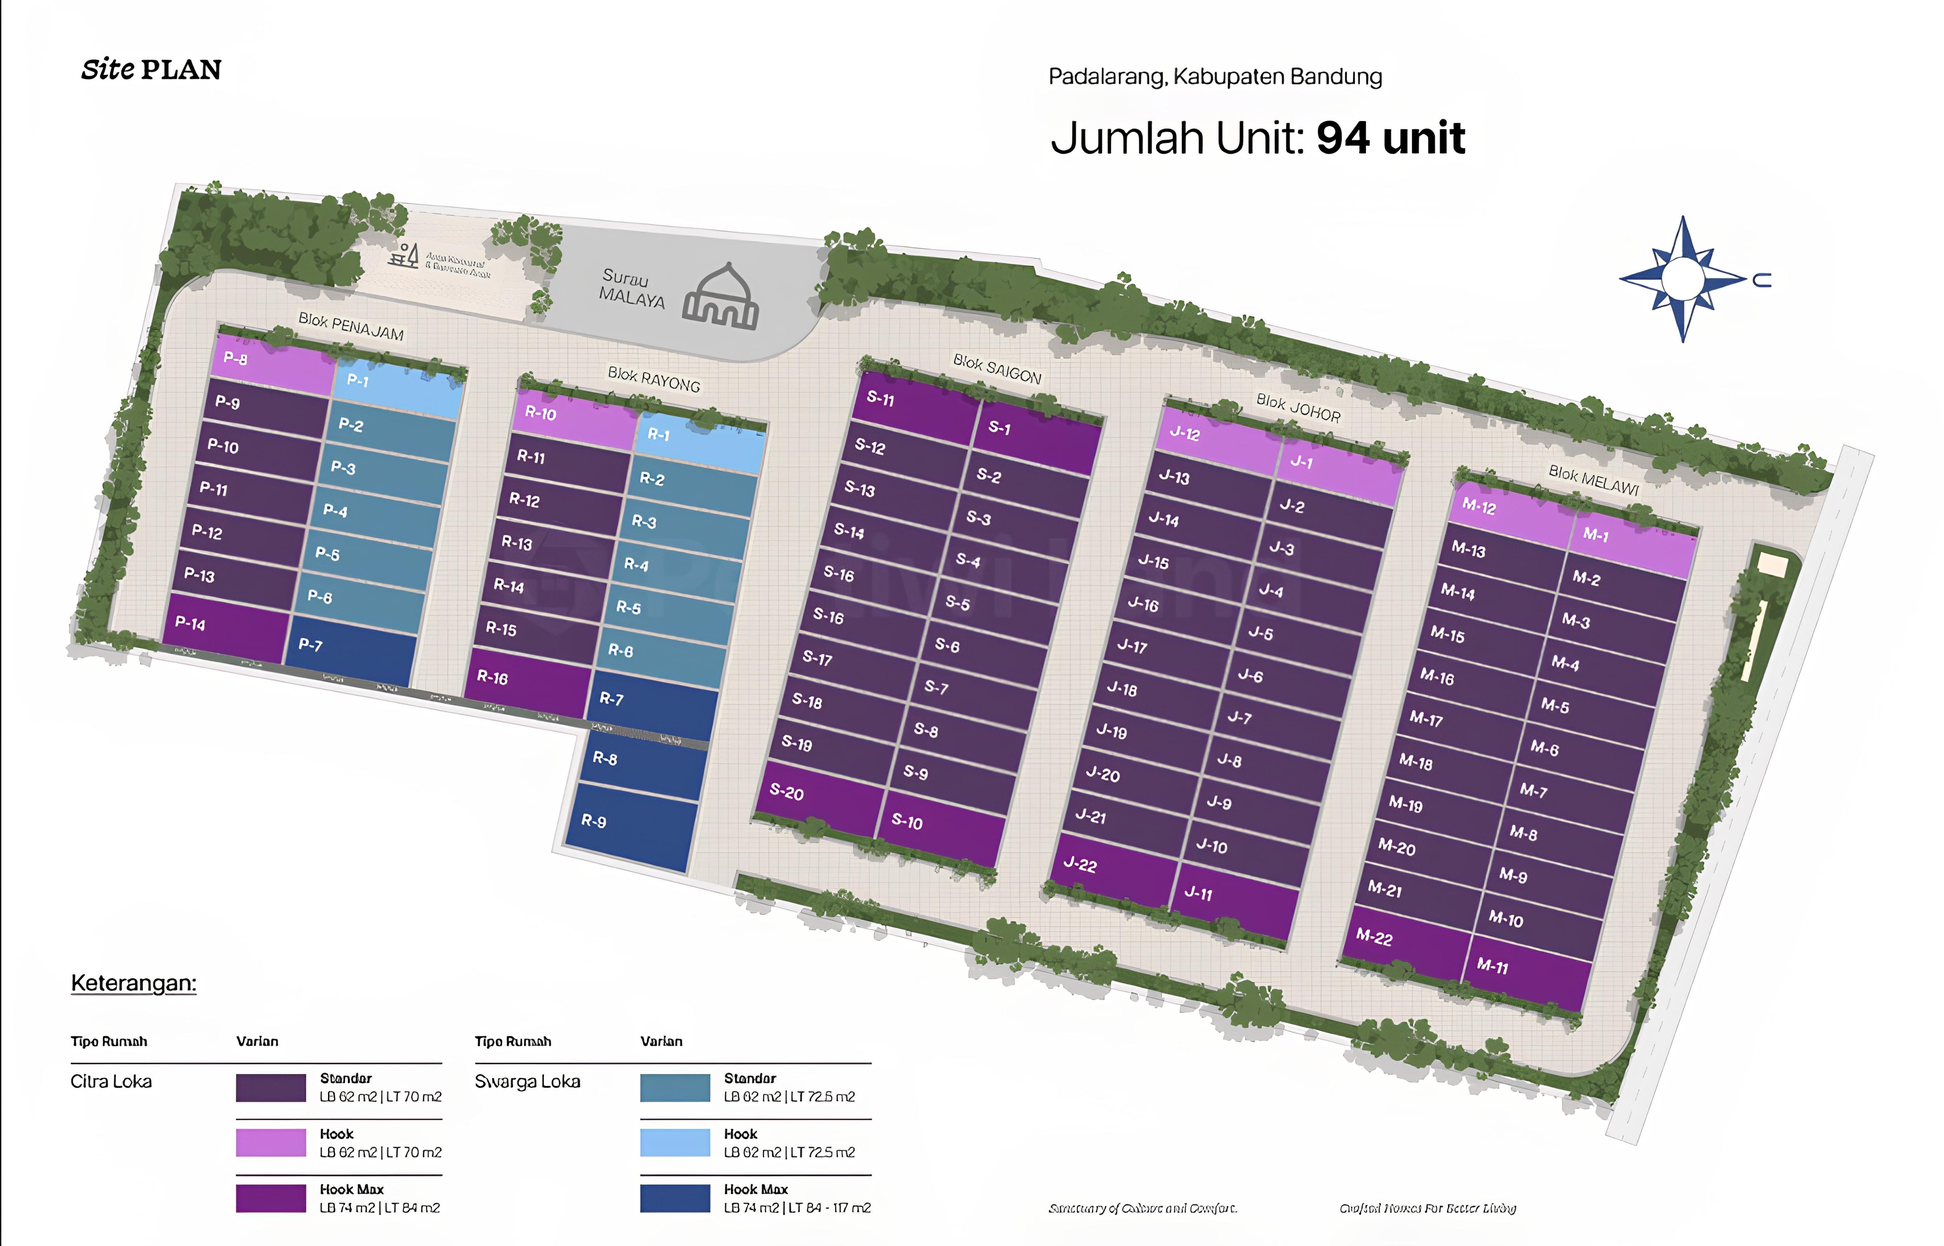
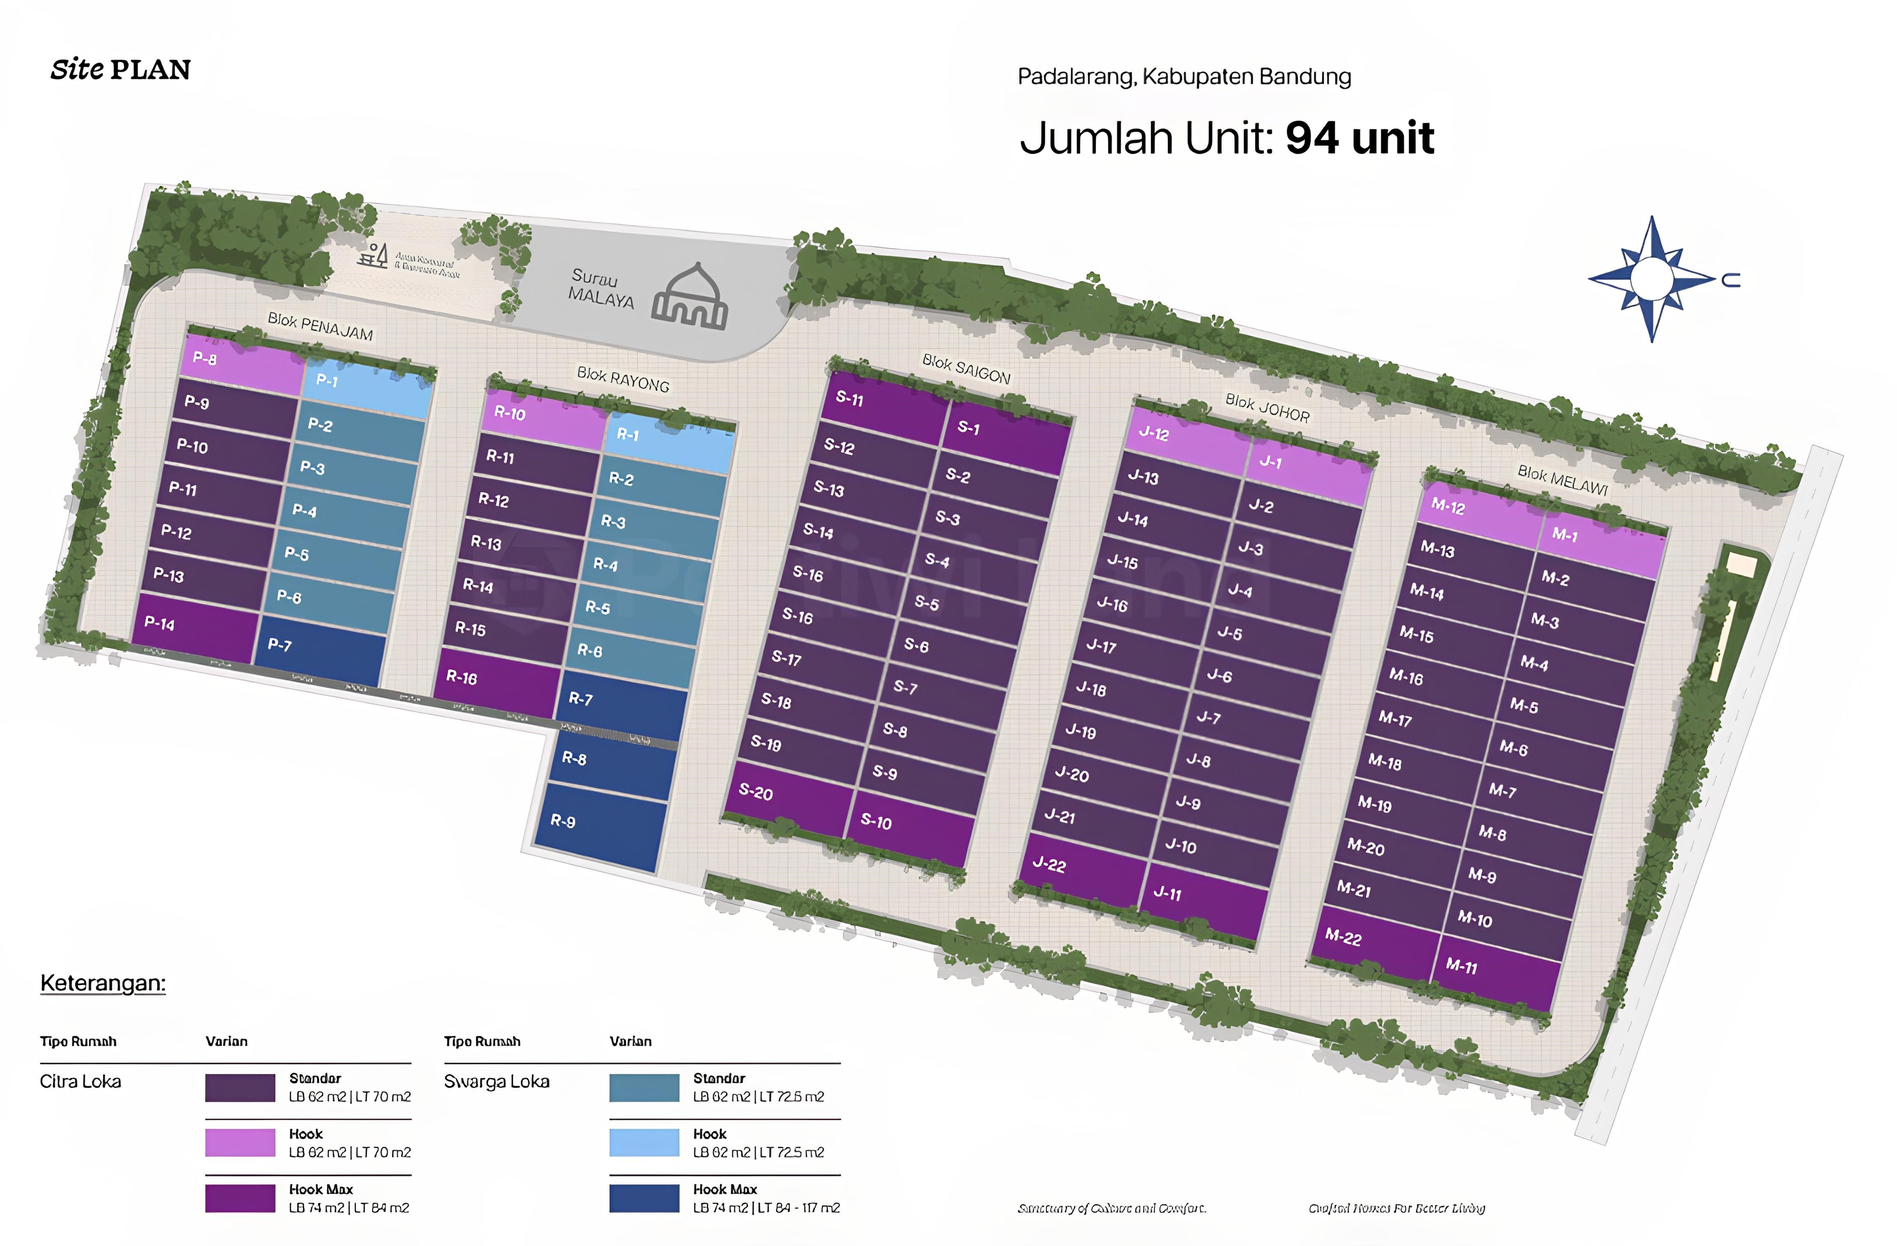
Final V1

diff --git a/index.html b/index.html
@@ -17,16 +17,19 @@
 <body class="bg-white text-gray-800">
 
     <header class="bg-white shadow-md sticky top-0 z-50">
-        <nav class="container mx-auto px-6 py-4 flex justify-between items-center">
-            <div class="text-2xl font-bold text-gray-800">MALAYA</div>
-            <div class="hidden md:flex space-x-8">
-                <a href="#home" class="text-gray-600 hover:text-gray-800">Home</a>
-                <a href="#about" class="text-gray-600 hover:text-gray-800">About</a>
-                <a href="#contact" class="text-gray-600 hover:text-gray-800">Contact</a>
-            </div>
-            <a href="#" class="bg-red-700 text-white px-4 py-2 rounded-md hover:bg-red-800">Download E-Brochure</a>
-        </nav>
-    </header>
+    <nav class="container mx-auto px-6 py-4 flex justify-between items-center">
+        <div class="flex items-center">
+            <img src="asset/logo/MalayaTitleUp.png" alt="Malaya House Logo" class="h-20 w-auto mr-3">
+        </div>
+        <div class="hidden md:flex space-x-8">
+            <a href="#home" class="text-gray-600 hover:text-gray-800">Home</a>
+            <a href="#about" class="text-gray-600 hover:text-gray-800">About</a>
+            <a href="#contact" class="text-gray-600 hover:text-gray-800">Contact</a>
+        </div>
+        <a href="#" class="bg-red-700 text-white px-4 py-2 rounded-md hover:bg-red-800">Download E-Brochure</a>
+    </nav>
+</header>
+
 
     <main>
         <section id="home" class="container mx-auto px-6 py-16 sm:py-24">
@@ -145,7 +148,7 @@
                         <a href="#" class="text-red-700 font-semibold hover:underline">Learn more &rarr;</a>
                     </div>
                     <div class="relative flex-grow flex flex-col">
-                <iframe src="https://maps.google.com/maps?q=Jl.%20Pasir%20Gede%2C%20Padalarang%2C%20Bandung%20Barat%2C%20Jawa%20Barat%2040553&t=&z=15&ie=UTF8&iwloc=&output=embed" class="w-full h-full object-cover rounded-2xl" style="border:0;" allowfullscreen="" loading="lazy" referrerpolicy="no-referrer-when-downgrade"></iframe>
+                <iframe src="https://www.google.com/maps/embed?pb=!1m18!1m12!1m3!1d3889.175882369402!2d107.47366287491049!3d-6.8439186931542535!2m3!1f0!2f0!3f0!3m2!1i1024!2i768!4f13.1!3m3!1m2!1s0x2e68fdd1abd9ad11%3A0xecbaddd557f73ee1!2sRUMAH%20MALAYA!5e1!3m2!1sen!2sid!4v1759476632500!5m2!1sen!2sid" class="w-full h-full object-cover rounded-2xl" style="border:0;" allowfullscreen="" loading="lazy" referrerpolicy="no-referrer-when-downgrade"></iframe>
                 <!-- <div class="absolute bottom-0 left-0 w-full p-4">
                    <a href="https://www.google.com/maps/search/?api=1&query=Jl.+Pasir+Gede,+Padalarang,+Bandung+Barat,+Jawa+Barat+40553" target="_blank" rel="noopener noreferrer" class="block bg-white/90 backdrop-blur-sm p-4 rounded-lg shadow-md hover:shadow-lg transition-shadow">
                        <div class="flex justify-between items-center">
@@ -254,11 +257,9 @@
                     <div class="lg:col-span-1">
                         <h2 class="text-5xl font-bold mb-4">Site Plan</h2>
                         <p class="text-gray-600 mb-6">Dirancang dengan tata ruang yang efisien, memastikan akses mudah ke fasilitas, ruang terbuka hijau, dan area komunal.</p>
-                        <img src="https://placehold.co/400x150/e2e8f0/333333?text=Site+Plan+Legend" alt="Site Plan Legend" class="w-full h-auto object-contain mb-6">
-                        <div class="text-lg font-bold">MALAYA</div>
-                    </div>
+                        </div>
                     <div class="lg:col-span-2">
-                        <img src="https://placehold.co/800x600/e2e8f0/333333?text=Malaya+Site+Plan+Image" alt="Site Plan" class="w-full h-auto rounded-lg shadow-lg">
+                        <img src="asset/Site_Plan_Malaya.jpg" alt="Site Plan" class="w-full h-auto rounded-lg shadow-lg">
                     </div>
                 </div>
                 
@@ -269,25 +270,25 @@
                     </div>
                     <div class="lg:col-span-2 grid grid-cols-2 md:grid-cols-4 gap-4">
                         <div class="relative rounded-lg overflow-hidden h-64 group">
-                             <img src="https://placehold.co/300x400/cccccc/333333?text=High+Ceiling" class="w-full h-full object-cover group-hover:scale-105 transition-transform duration-300">
+                             <img src="asset/fotofoto/Tanggal Lt.2- (3).png" class="w-full h-full object-cover group-hover:scale-105 transition-transform duration-300">
                              <div class="absolute bottom-0 left-0 p-4 bg-gradient-to-t from-black/60 to-transparent w-full">
                                 <h3 class="text-white text-lg font-bold">High Ceiling</h3>
                             </div>
                         </div>
                         <div class="relative rounded-lg overflow-hidden h-64 group">
-                             <img src="https://placehold.co/300x400/cccccc/333333?text=Open+Space" class="w-full h-full object-cover group-hover:scale-105 transition-transform duration-300">
+                             <img src="asset/fotofoto/Ruang Tengah- (3).png" class="w-full h-full object-cover group-hover:scale-105 transition-transform duration-300">
                              <div class="absolute bottom-0 left-0 p-4 bg-gradient-to-t from-black/60 to-transparent w-full">
                                 <h3 class="text-white text-lg font-bold">Open Space</h3>
                             </div>
                         </div>
                         <div class="relative rounded-lg overflow-hidden h-64 group">
-                             <img src="https://placehold.co/300x400/cccccc/333333?text=Carport+Luas" class="w-full h-full object-cover group-hover:scale-105 transition-transform duration-300">
+                             <img src="asset/fotofoto/carport.png" class="w-full h-full object-cover group-hover:scale-105 transition-transform duration-300">
                              <div class="absolute bottom-0 left-0 p-4 bg-gradient-to-t from-black/60 to-transparent w-full">
                                 <h3 class="text-white text-lg font-bold">Carport Luas</h3>
                             </div>
                         </div>
                         <div class="relative rounded-lg overflow-hidden h-64 group">
-                             <img src="https://placehold.co/300x400/cccccc/333333?text=Pencahayaan+Alami" class="w-full h-full object-cover group-hover:scale-105 transition-transform duration-300">
+                             <img src="asset/fotofoto/Ruang Tamu- (3).png" class="w-full h-full object-cover group-hover:scale-105 transition-transform duration-300">
                              <div class="absolute bottom-0 left-0 p-4 bg-gradient-to-t from-black/60 to-transparent w-full">
                                 <h3 class="text-white text-lg font-bold">Pencahayaan Alami</h3>
                             </div>
@@ -305,7 +306,7 @@
                 </div>
                 <div class="grid md:grid-cols-2 gap-12 items-center mb-24">
                     <div>
-                        <img src="https://placehold.co/600x400/e2e8f0/333333?text=Accessibility+Map" alt="Accessibility Map" class="w-full h-auto rounded-lg">
+                        <img src="asset/layout/Sekitar Malaya.jpg" alt="Accessibility Map" class="w-full h-auto rounded-lg">
                     </div>
                     <div>
                         <ul class="space-y-4">
@@ -323,95 +324,42 @@
                         <h2 class="text-5xl font-bold">Bank Partner</h2>
                     </div>
                     <div class="md:col-span-2 grid grid-cols-3 sm:grid-cols-5 gap-8 items-center">
-                        <img src="https://placehold.co/120x60/e2e8f0/cccccc?text=BCA" alt="BCA Logo" class="h-10 object-contain filter grayscale hover:grayscale-0 transition">
-                        <img src="https://placehold.co/120x60/e2e8f0/cccccc?text=BNI" alt="BNI Logo" class="h-10 object-contain filter grayscale hover:grayscale-0 transition">
-                        <img src="https://placehold.co/120x60/e2e8f0/cccccc?text=BRI" alt="BRI Logo" class="h-10 object-contain filter grayscale hover:grayscale-0 transition">
-                        <img src="https://placehold.co/120x60/e2e8f0/cccccc?text=BSI" alt="BSI Logo" class="h-10 object-contain filter grayscale hover:grayscale-0 transition">
-                        <img src="https://placehold.co/120x60/e2e8f0/cccccc?text=BJB" alt="BJB Syariah Logo" class="h-10 object-contain filter grayscale hover:grayscale-0 transition">
-                        <img src="https://placehold.co/120x60/e2e8f0/cccccc?text=Mandiri" alt="Mandiri Logo" class="h-10 object-contain filter grayscale hover:grayscale-0 transition">
-                        <img src="https://placehold.co/120x60/e2e8f0/cccccc?text=Permata" alt="Permata Syariah Logo" class="h-10 object-contain filter grayscale hover:grayscale-0 transition">
-                        <img src="https://placehold.co/120x60/e2e8f0/cccccc?text=Permata" alt="Permata Bank Logo" class="h-10 object-contain filter grayscale hover:grayscale-0 transition">
-                        <img src="https://placehold.co/120x60/e2e8f0/cccccc?text=BTN" alt="BTN Syariah Logo" class="h-10 object-contain filter grayscale hover:grayscale-0 transition">
-                        <img src="https://placehold.co/120x60/e2e8f0/cccccc?text=BCA" alt="BCA Syariah Logo" class="h-10 object-contain filter grayscale hover:grayscale-0 transition">
+                        <img src="asset/logo/bcalogo.png" alt="BCA Logo" class="h-10 object-contain filter grayscale hover:grayscale-0 transition">
+                        <img src="asset/logo/bnilogo.png" alt="BNI Logo" class="h-10 object-contain filter grayscale hover:grayscale-0 transition">
+                        <img src="asset/logo/brilogo.png" alt="BRI Logo" class="h-10 object-contain filter grayscale hover:grayscale-0 transition">
+                        <img src="asset/logo/Bank_Syariah_Indonesia.svg.png" alt="BSI Logo" class="h-10 object-contain filter grayscale hover:grayscale-0 transition">
+                        <img src="asset/logo/UpWz2NCSiKh4n70tyHM7e81vPT8oO5L6gR6QCJtd.png" alt="BJB Syariah Logo" class="h-10 object-contain filter grayscale hover:grayscale-0 transition">
+                        <img src="asset/logo/Bank_Mandiri_logo_2016.svg.png" alt="Mandiri Logo" class="h-10 object-contain filter grayscale hover:grayscale-0 transition">
+                        <img src="asset/logo/permatasyariah.png" alt="Permata Syariah Logo" class="h-10 object-contain filter grayscale hover:grayscale-0 transition">
+                        <img src="asset/logo/permatabank.png" alt="Permata Bank Logo" class="h-10 object-contain filter grayscale hover:grayscale-0 transition">
+                        <img src="asset/logo/logo-btn-syariah.webp" alt="BTN Syariah Logo" class="h-10 object-contain filter grayscale hover:grayscale-0 transition">
+                        <img src="asset/logo/logo-bcas-full-color.png" alt="BCA Syariah Logo" class="h-10 object-contain filter grayscale hover:grayscale-0 transition">
                     </div>
                 </div>
             </div>
         </section>
         
-        <section id="contact" class="py-16 sm:py-24 bg-gray-50">
-            <div class="container mx-auto px-6">
-                <div class="grid lg:grid-cols-2 gap-16 items-start">
-                    <div>
-                        <div class="mb-12">
-                            <h2 class="text-3xl font-bold">Jejak Kualitas, Terbukti dari Setiap Hunian</h2>
-                            <p class="text-gray-600 mt-2">Pertiwi Land: Developer Terpercaya dengan Reputasi Teruji</p>
-                        </div>
-                        <div class="grid sm:grid-cols-2 gap-8">
-                            <div class="bg-white p-6 rounded-lg shadow-md border-2 border-gray-200">
-                                <p class="text-gray-600 italic text-lg text-center">"Gambar desain dan hasil jadi rumahnya sesuai!"</p>
-                                <div class="mt-4 flex items-center justify-center space-x-3">
-                                    <img src="https://placehold.co/40x40/e0e0e0/333333?text=A" alt="Avatar" class="w-10 h-10 rounded-full">
-                                    <div class="text-left">
-                                        <p class="font-semibold">Nama Buyer</p>
-                                        <p class="text-sm text-gray-500">Konsumen proyek Eureka by Pertiwi Land</p>
-                                    </div>
-                                </div>
-                            </div>
-                            <div class="bg-white p-6 rounded-lg shadow-md border-2 border-gray-200">
-                                <p class="text-gray-600 italic text-lg text-center">"Rumah rasa villa yang city view-nya cakep banget dan bikin berasa staycation tiap hari."</p>
-                                 <div class="mt-4 flex items-center justify-center space-x-3">
-                                    <img src="https://placehold.co/40x40/e0e0e0/333333?text=B" alt="Avatar" class="w-10 h-10 rounded-full">
-                                    <div class="text-left">
-                                        <p class="font-semibold">Nama Buyer</p>
-                                        <p class="text-sm text-gray-500">Konsumen proyek xxx by Pertiwi Land</p>
-                                    </div>
-                                </div>
-                            </div>
-                        </div>
-                    </div>
-                    <div>
-                        <div class="bg-white p-8 rounded-lg shadow-lg">
-                            <h2 class="text-3xl font-bold mb-2">Punya Pertanyaan?</h2>
-                            <p class="text-gray-600 mb-6">Langsung Chat Aja!</p>
-                            <form action="#" method="POST" class="space-y-4">
-                                <div class="grid grid-cols-2 gap-4">
-                                     <div>
-                                        <label for="name" class="sr-only">Nama Lengkap</label>
-                                        <input type="text" id="name" name="name" placeholder="Nama Lengkap" class="mt-1 block w-full px-3 py-2 bg-gray-100 border border-gray-200 rounded-md focus:outline-none focus:ring-red-500 focus:border-red-500">
-                                    </div>
-                                     <div>
-                                        <label for="gender" class="sr-only">Jenis Kelamin</label>
-                                        <input type="text" id="gender" name="gender" placeholder="Jenis Kelamin" class="mt-1 block w-full px-3 py-2 bg-gray-100 border border-gray-200 rounded-md focus:outline-none focus:ring-red-500 focus:border-red-500">
-                                    </div>
-                                </div>
-                                <div class="grid grid-cols-2 gap-4">
-                                     <div>
-                                        <label for="whatsapp" class="sr-only">No Whatsapp</label>
-                                        <input type="tel" id="whatsapp" name="whatsapp" placeholder="No. Whatsapp" class="mt-1 block w-full px-3 py-2 bg-gray-100 border border-gray-200 rounded-md focus:outline-none focus:ring-red-500 focus:border-red-500">
-                                    </div>
-                                     <div>
-                                        <label for="email" class="sr-only">Alamat E-mail</label>
-                                        <input type="email" id="email" name="email" placeholder="Alamat E-mail" class="mt-1 block w-full px-3 py-2 bg-gray-100 border border-gray-200 rounded-md focus:outline-none focus:ring-red-500 focus:border-red-500">
-                                    </div>
-                                </div>
-                                <div>
-                                    <label for="message" class="sr-only">Apa yang ingin ditanyakan?</label>
-                                    <textarea id="message" name="message" rows="4" placeholder="Apa yang ingin ditanyakan?" class="mt-1 block w-full px-3 py-2 bg-gray-100 border border-gray-200 rounded-md focus:outline-none focus:ring-red-500 focus:border-red-500"></textarea>
-                                </div>
-                                <div>
-                                    <button type="submit" class="w-full bg-red-700 text-white py-3 px-4 rounded-md font-semibold hover:bg-red-800 focus:outline-none focus:ring-2 focus:ring-offset-2 focus:ring-red-500">Submit</button>
-                                </div>
-                            </form>
-                        </div>
-                    </div>
-                </div>
-            </div>
-        </section>
+        <!-- CTA Section -->
+<section id="contact" class="py-16 sm:py-24 bg-gray-50">
+    <div class="container mx-auto px-6">
+        <div class="bg-white p-12 rounded-lg shadow-lg text-center max-w-4xl mx-auto">
+            <h2 class="text-4xl font-bold mb-4">Punya Pertanyaan?</h2>
+            <p class="text-gray-600 mb-8 text-lg max-w-2xl mx-auto">Jangan ragu untuk menghubungi kami. Tim kami siap membantu Anda menemukan hunian impian di Malaya House.</p>
+            <a href="https://wa.me/6281234567890?text=Halo,%20saya%20tertarik%20dengan%20Malaya%20House.%20Bisa%20minta%20info%20lebih%20lanjut?" target="_blank" rel="noopener noreferrer" class="inline-block bg-red-700 text-white py-4 px-8 rounded-md font-semibold text-lg hover:bg-red-800 focus:outline-none focus:ring-2 focus:ring-offset-2 focus:ring-red-500 transition-transform transform hover:scale-105">
+                <svg class="inline-block w-6 h-6 mr-2" fill="currentColor" viewBox="0 0 24 24" xmlns="http://www.w3.org/2000/svg"><path d="M16.75 13.96c.25.13.42.2.63.29.21.1.4.18.58.26.23.1.47.16.73.16.25 0 .5-.03.73-.08.43-.1.83-.34 1.14-.78.3-.44.42-.98.3-1.58-.12-.6-.44-1.13-.93-1.55-.5-.43-1.1-.7-1.78-.83-.68-.12-1.37-.06-2.02.18-.65.24-1.22.68-1.66 1.26-.44.58-.73 1.28-.84 2.03-.02.13-.02.26 0 .39.04.22.1.43.18.63.13.3.3.56.5.8.2.24.43.46.68.66.25.2.52.37.8.52.28.15.58.27.89.37.31.1.62.15.94.15.3 0 .6-.04.88-.12.28-.08.55-.2.8-.34a1.8 1.8 0 00.55-.38c.18-.17.34-.36.46-.57.12-.2.2-.43.25-.66.04-.24.06-.48.02-.72-.03-.24-.1-.47-.18-.69-.1-.2-.2-.4-.34-.56-.14-.17-.3-.3-.48-.43-.18-.13-.38-.22-.6-.28-.2-.07-.4-.1-.6-.1-.22 0-.44.03-.64.08-.2.06-.38.14-.54.25-.16.1-.3.22-.42.35-.12.13-.22.28-.3.44zM12.04 2c-5.46 0-9.9 4.44-9.9 9.9 0 1.7.44 3.33 1.24 4.76l-1.32 4.86 5-1.3c1.38.76 2.94 1.18 4.58 1.18h.01c5.46 0 9.9-4.44 9.9-9.9s-4.44-9.9-9.9-9.9z"/></svg>
+                Chat via WhatsApp
+            </a>
+        </div>
+    </div>
+</section>
+
+
     </main>
     
     <footer class="bg-gray-800 text-white">
         <div class="container mx-auto px-6 py-8 flex flex-col md:flex-row justify-between items-center">
-            <div class="text-2xl font-bold">MALAYA</div>
+            <div class="text-2xl font-bold">
+            </div>
             <div class="flex space-x-6 mt-4 md:mt-0">
                 <a href="#home" class="hover:text-gray-300">Home</a>
                 <a href="#about" class="hover:text-gray-300">About</a>
@@ -453,7 +401,7 @@
                 },
                 hookMax: {
                     name: 'Varian Hook Max',
-                    image: 'asset/layout/swargaloka/hook max/HM SL (2).png',
+                    image: 'asset/layout/swargaloka/hook max/HMSL (2).png',
                     specs: { 'Luas Tanah': '125 m²', 'Luas Bangunan': '75 m²', 'Kamar Tidur': '4', 'Kamar Mandi': '3', 'Dapur & R. Makan': '1', 'Ruang Tamu': '1', 'Carport': '2', 'Taman Luas': '1' }
                 }
             }
